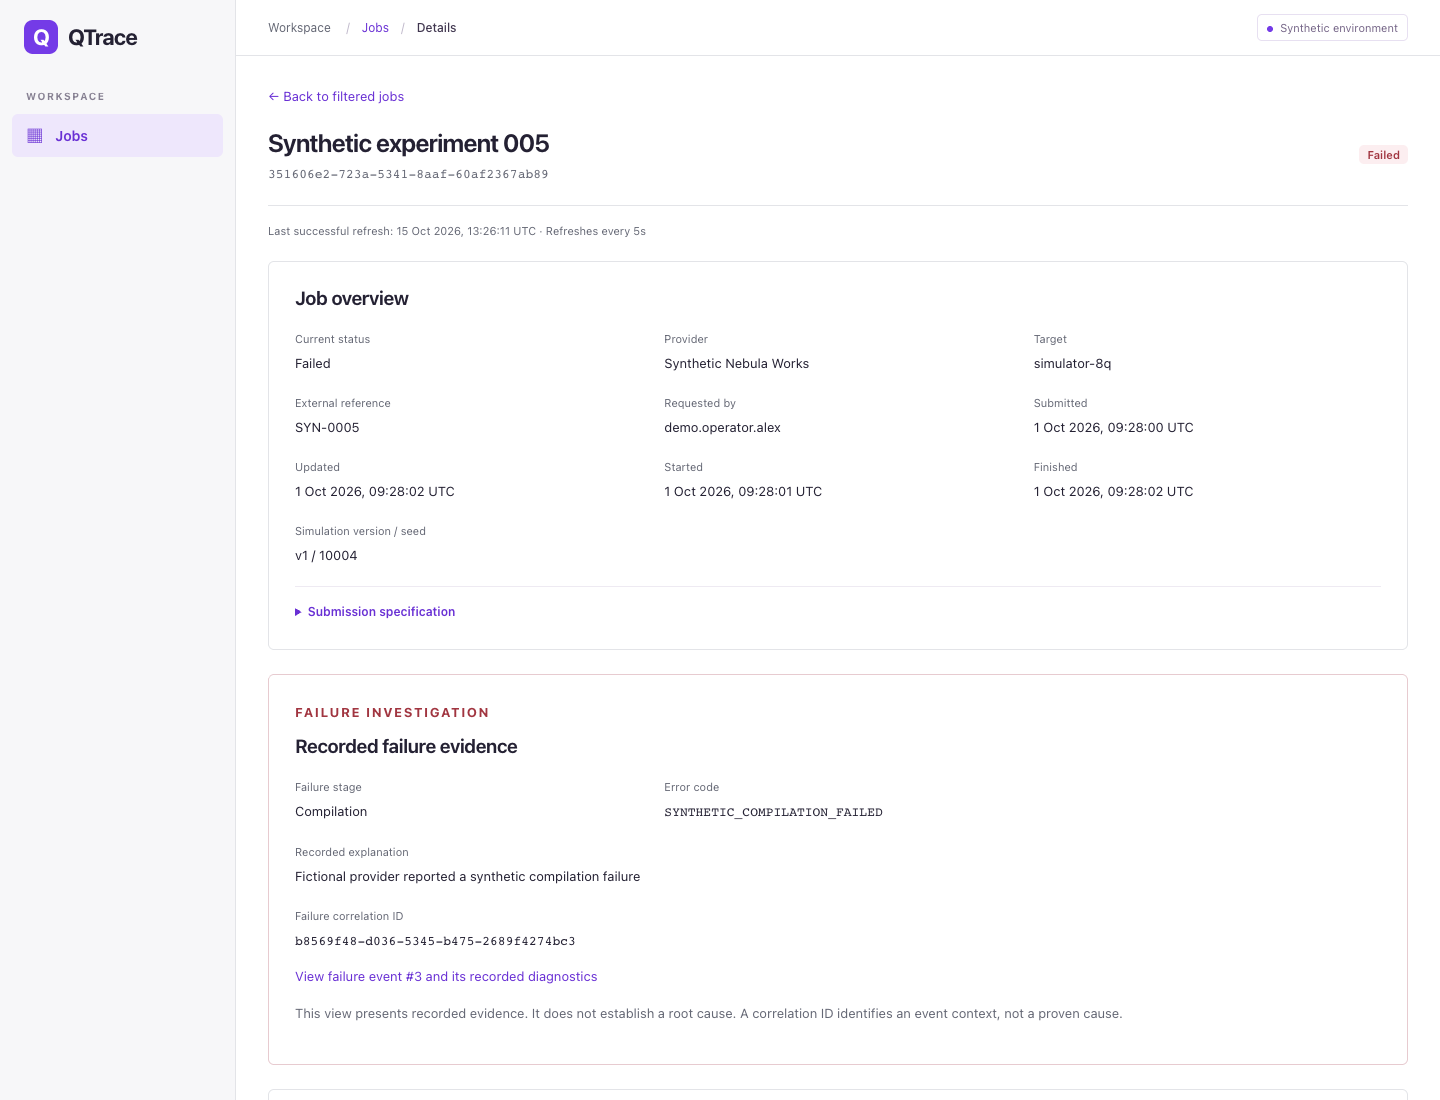
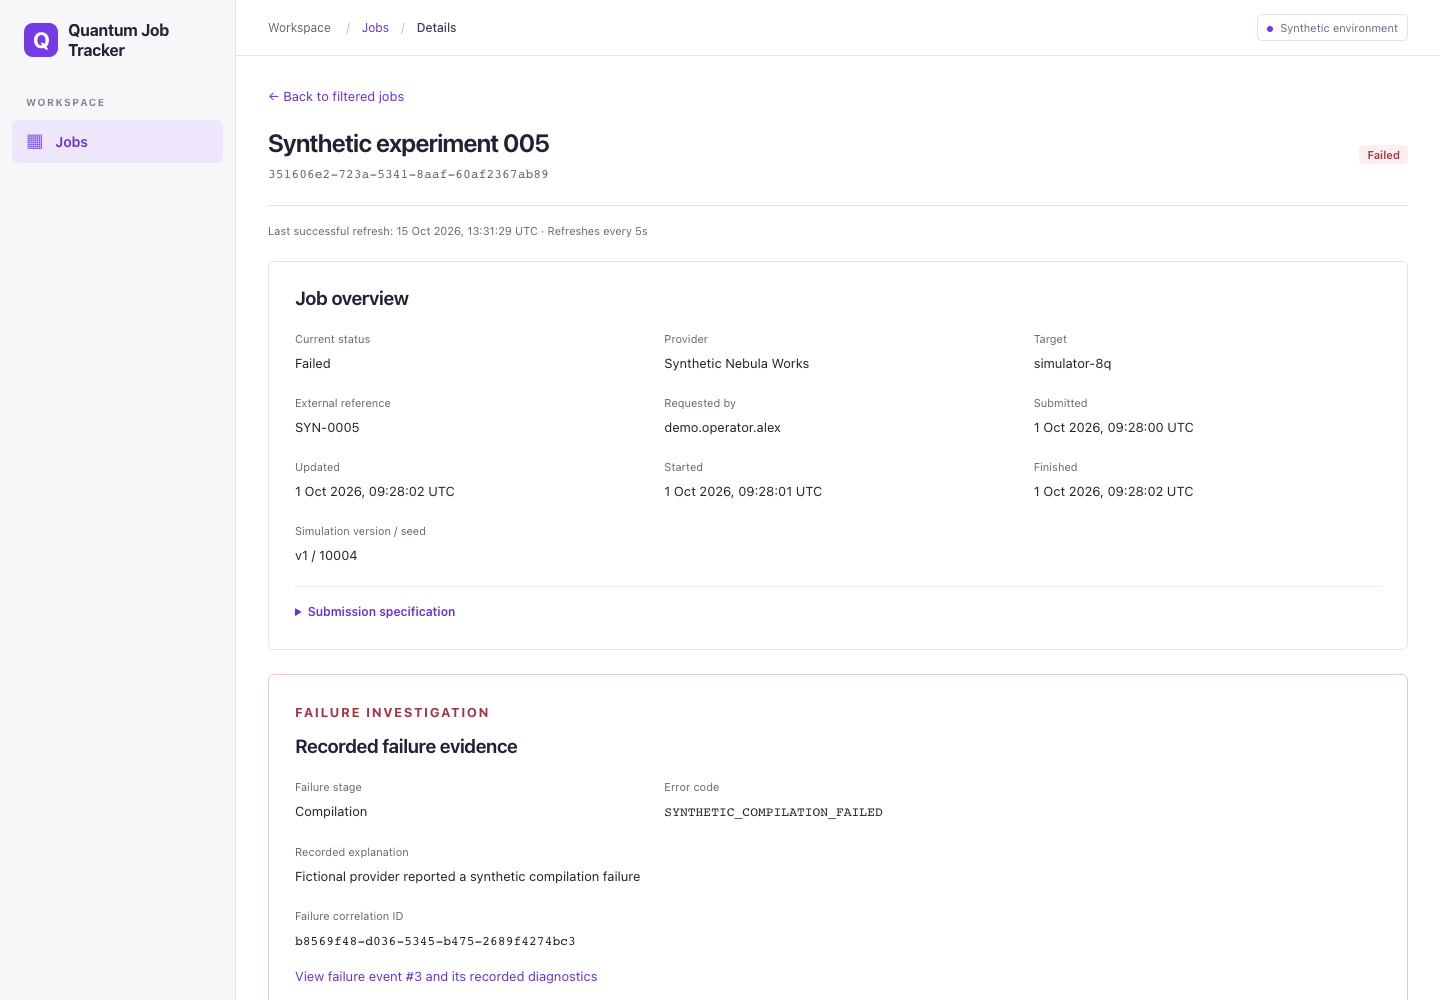
Rename app to Quantum Job Tracker and refresh screenshots

diff --git a/frontend/src/JobDetails.tsx b/frontend/src/JobDetails.tsx
@@ -83,11 +83,11 @@ export function JobDetails({ jobId, backHref }: { jobId: string; backHref: strin
   return (
     <div className="app-shell">
       <aside className="sidebar" aria-label="Workspace navigation">
-        <header><span className="mark" aria-hidden="true">Q</span> QTrace</header>
+        <header><span className="mark" aria-hidden="true">Q</span><span className="brand-name">Quantum Job Tracker</span></header>
         <p className="workspace-label">WORKSPACE</p>
         <a className="nav-item active" href={backHref}><span aria-hidden="true">▦</span> Jobs</a>
         <div className="sidebar-note"><span className="sidebar-note-icon" aria-hidden="true">◇</span><strong>Synthetic environment</strong><p>Investigate recorded evidence from fictional runs.</p></div>
-        <div className="sidebar-bottom">QTrace <span>Local workspace</span></div>
+        <div className="sidebar-bottom"><span className="brand-footer">Quantum Job Tracker</span><span>Local workspace</span></div>
       </aside>
       <div className="workspace">
         <div className="topbar"><span>Workspace <span className="breadcrumb-divider">/</span><a href={backHref}>Jobs</a><span className="breadcrumb-divider">/</span><strong>Details</strong></span><span className="environment-badge">Synthetic environment</span></div>

diff --git a/frontend/src/App.tsx b/frontend/src/App.tsx
@@ -115,11 +115,11 @@ function JobsList() {
   return (
     <div className="app-shell">
       <aside className="sidebar" aria-label="Workspace navigation">
-        <header><span className="mark" aria-hidden="true">Q</span> QTrace</header>
+        <header><span className="mark" aria-hidden="true">Q</span><span className="brand-name">Quantum Job Tracker</span></header>
         <p className="workspace-label">WORKSPACE</p>
         <a className="nav-item active" href="/" aria-current="page"><span aria-hidden="true">▦</span> Jobs</a>
         <div className="sidebar-note"><span className="sidebar-note-icon" aria-hidden="true">◇</span><strong>Synthetic environment</strong><p>Investigate fictional jobs and their outcomes.</p></div>
-        <div className="sidebar-bottom">QTrace <span>Local workspace</span></div>
+        <div className="sidebar-bottom"><span className="brand-footer">Quantum Job Tracker</span><span>Local workspace</span></div>
       </aside>
       <div className="workspace">
         <div className="topbar"><span>Workspace <span className="breadcrumb-divider">/</span> <strong>Jobs</strong></span><span className="environment-badge">Synthetic environment</span></div>

diff --git a/frontend/src/style.css b/frontend/src/style.css
@@ -130,3 +130,8 @@ section.detail-panel { padding: 26px; overflow: visible; }
 .diagnostics pre { padding: 16px; margin: 14px 0 0; overflow-x: auto; background: #faf9fc; border: 1px solid #e3e4e8; border-radius: 6px; font-size: 12px; line-height: 1.7; white-space: pre-wrap; overflow-wrap: anywhere; }
 @media (max-width: 950px) { .metadata-grid { grid-template-columns: repeat(2, minmax(0, 1fr)); } .event-heading, .timeline-heading { align-items: flex-start; flex-direction: column; gap: 8px; } .timeline-heading { margin-bottom: 20px; } .timeline-heading h2 { margin-bottom: 0; } }
 @media (max-width: 650px) { .metadata-grid { grid-template-columns: 1fr; } section.detail-panel { padding: 20px; } .event-metadata { flex-direction: column; gap: 12px; } }
+
+.brand-name { font-size: 16px; line-height: 1.25; letter-spacing: -.3px; }
+.mark { flex-shrink: 0; }
+.sidebar-bottom { gap: 8px; align-items: center; flex-wrap: wrap; }
+.sidebar-bottom .brand-footer { color: #62596f; font-size: 12px; }

diff --git a/frontend/playwright.config.ts b/frontend/playwright.config.ts
@@ -8,8 +8,8 @@ export default defineConfig({
   retries: 0,
   reporter: 'list',
   use: {
-    baseURL: process.env.QTRACE_E2E_BASE_URL ?? 'http://127.0.0.1:5173',
-    channel: process.env.QTRACE_E2E_CHANNEL,
+    baseURL: process.env.QUANTUM_JOB_TRACKER_E2E_BASE_URL ?? 'http://127.0.0.1:5173',
+    channel: process.env.QUANTUM_JOB_TRACKER_E2E_CHANNEL,
     trace: 'retain-on-failure',
     screenshot: 'only-on-failure',
   },

diff --git a/frontend/index.html b/frontend/index.html
@@ -4,7 +4,7 @@
     <meta charset="UTF-8" />
     <meta name="viewport" content="width=device-width, initial-scale=1.0" />
     <meta name="theme-color" content="#172a31" />
-    <title>QTrace · Synthetic quantum operations</title>
+    <title>Quantum Job Tracker · Synthetic quantum operations</title>
   </head>
   <body>
     <div id="root"></div>

diff --git a/backend/tests/conftest.py b/backend/tests/conftest.py
@@ -13,13 +13,13 @@ from sqlalchemy.pool import NullPool
 
 @pytest.fixture
 def postgres_engine():
-    url = os.environ.get("QTRACE_TEST_DATABASE_URL")
+    url = os.environ.get("QUANTUM_JOB_TRACKER_TEST_DATABASE_URL")
     if not url:
-        pytest.skip("Set QTRACE_TEST_DATABASE_URL to run real PostgreSQL tests")
+        pytest.skip("Set QUANTUM_JOB_TRACKER_TEST_DATABASE_URL to run real PostgreSQL tests")
     if not url.startswith("postgresql+psycopg://"):
         pytest.fail("Integration tests require a postgresql+psycopg URL, never SQLite")
     admin = create_engine(url, poolclass=NullPool)
-    schema = "qtrace_test_" + uuid4().hex
+    schema = "quantum_job_tracker_test_" + uuid4().hex
     with admin.begin() as connection:
         connection.execute(text(f'CREATE SCHEMA "{schema}"'))
     engine = create_engine(url, poolclass=NullPool, connect_args={

diff --git a/backend/app/main.py b/backend/app/main.py
@@ -19,13 +19,13 @@ def create_app(settings: Settings | None = None) -> FastAPI:
         finally:
             application.state.engine.dispose()
 
-    application = FastAPI(title="QTrace API", lifespan=lifespan)
+    application = FastAPI(title="Quantum Job Tracker API", lifespan=lifespan)
     application.include_router(job_list_router)
     application.include_router(job_details_router)
 
     @application.get("/health/live")
     def live() -> dict[str, str]:
-        return {"status": "ok", "service": "qtrace-api"}
+        return {"status": "ok", "service": "quantum-job-tracker-api"}
 
     @application.get("/health/ready")
     def ready(request: Request) -> JSONResponse:

diff --git a/backend/tests/test_health.py b/backend/tests/test_health.py
@@ -21,7 +21,7 @@ def test_liveness_does_not_probe_database():
         with TestClient(create_app(settings())) as client:
             response = client.get("/health/live")
         assert response.status_code == 200
-        assert response.json() == {"status": "ok", "service": "qtrace-api"}
+        assert response.json() == {"status": "ok", "service": "quantum-job-tracker-api"}
         probe.assert_not_called()
 
 

diff --git a/docs/progress.md b/docs/progress.md
@@ -1,10 +1,10 @@
-# QTrace progress
+# Quantum Job Tracker progress
 
 ## Current status
 
 Job details and the failure-investigation workflow are complete on top of the searchable jobs list. The details stage passed 85 backend tests, 19 frontend tests, production/container builds, and a Playwright workflow against the live PostgreSQL stack using installed Chrome. Worker execution, authentication, and operator actions remain deferred.
 
-The selected project name remains QTrace. All seeded and future quantum jobs and providers are synthetic; nothing connects to Horizon Quantum systems.
+The project is named Quantum Job Tracker. All seeded and future quantum jobs and providers are synthetic; nothing connects to Horizon Quantum systems.
 
 ## Staged checklist
 
@@ -96,7 +96,7 @@ The selected project name remains QTrace. All seeded and future quantum jobs and
 
 - Re-read existing code and documentation; no `AGENTS.md` exists in this workspace. Preserved the existing frontend/API foundation.
 - Docker Engine and Compose are now accessible. The previously missing Docker/PostgreSQL verification path was available for this stage.
-- `QTRACE_TEST_DATABASE_URL=… .venv/bin/python -m pytest -q`: **55 passed** against PostgreSQL 17 (52 PostgreSQL tests plus 3 health tests), with the same single dependency deprecation warning. PostgreSQL tests applied migrations in disposable schemas; no SQLite substitute or database mocks were used for domain checks.
+- `QUANTUM_JOB_TRACKER_TEST_DATABASE_URL=… .venv/bin/python -m pytest -q`: **55 passed** against PostgreSQL 17 (52 PostgreSQL tests plus 3 health tests), with the same single dependency deprecation warning. PostgreSQL tests applied migrations in disposable schemas; no SQLite substitute or database mocks were used for domain checks.
 - PostgreSQL checks cover all 36 state pairs, direct terminal reactivation/illegal SQL transitions, failed event insertion rollback, actual enclosing transaction rollback, sequence uniqueness, immutable events/submissions, stale row versions, retry foreign keys, progress rejection after cancellation, both cancellation/completion commit orders, repeatable seed histories, model/migration agreement, and migration downgrade/upgrade.
 - `docker compose up --build -d`: passed. API/migration/frontend images built, the migration container exited 0, and API/database/frontend reported healthy.
 - `docker compose exec -T api alembic current`: `0002_jobs_and_events (head)`.
@@ -109,7 +109,7 @@ The selected project name remains QTrace. All seeded and future quantum jobs and
 ### Job-list checks (15 October 2026)
 
 - Re-read existing API/model/migration/seed/frontend code and project documents. No `AGENTS.md` was present. Preserved the workspace shell and purple styling already in the frontend.
-- `QTRACE_TEST_DATABASE_URL=… .venv/bin/python -m pytest -q`: **80 passed**, with one pre-existing Starlette/AnyIO deprecation warning. Includes actual PostgreSQL API filtering, timestamp ties, pagination boundaries, invalid queries, literal reference search, and a migration backfill/history-preservation test. Invalid-query and outage-response tests do not require PostgreSQL; database-backed tests still skip unless the explicit test URL is set.
+- `QUANTUM_JOB_TRACKER_TEST_DATABASE_URL=… .venv/bin/python -m pytest -q`: **80 passed**, with one pre-existing Starlette/AnyIO deprecation warning. Includes actual PostgreSQL API filtering, timestamp ties, pagination boundaries, invalid queries, literal reference search, and a migration backfill/history-preservation test. Invalid-query and outage-response tests do not require PostgreSQL; database-backed tests still skip unless the explicit test URL is set.
 - `cd frontend && npm test`: **11 passed** with Vitest/React Testing Library. Covers loading, result fields/statuses, empty results, retry after network failure, 422 feedback, combined filters, page reset/bounds, URL history, stale polling/recovery, hidden-tab polling, and obsolete responses. Mock HTTP data is confined to tests.
 - `cd frontend && npm run build`: passed TypeScript checking and Vite production build.
 - The first container build reported development-tool advisories. Updated Vite to 6.4.4 and Vitest to 4.1.11; `npm audit --json` subsequently reported **zero vulnerabilities**, and build/tests passed with those versions.
@@ -117,25 +117,25 @@ The selected project name remains QTrace. All seeded and future quantum jobs and
 - Live HTTP assertions through the frontend proxy traversed all 8 default pages: 200 distinct jobs in stable order, one combined status/provider/date/reference match, direct UUID search, no matches, beyond-last page, and invalid parameter rejection. Passed.
 - `sh scripts/check-stack.sh`: passed against the final Docker stack and actual PostgreSQL.
 - Desktop browser verification showed the 200-job list, a case-insensitive reference match, combined status/provider filters, restoration of a URL containing UTC date bounds, the live empty-results state, and browser Back restoration. Date bounds were restored from the URL; browser automation could not reliably enter native date controls. Form date changes are covered by the React tests and real API date-boundary tests.
-- Saved the verified browser view to `/tmp/qtrace-jobs-preview.jpg`. No dedicated mobile-device or screen-reader audit was performed.
+- Saved a temporary preview of the verified jobs view. No dedicated mobile-device or screen-reader audit was performed.
 - Final Python compilation, offline migration SQL generation, dependency consistency, direct source/document whitespace checks, and Markdown link/fence checks passed.
 
 ### Job-details checks (15 October 2026)
 
 - Re-read existing code and project documents before changing files. No `AGENTS.md` exists in this workspace. Preserved the existing jobs list, schema, seed data, and workspace styling.
-- `QTRACE_TEST_DATABASE_URL=… .venv/bin/python -m pytest -q`: **85 passed**, with the pre-existing Starlette/AnyIO deprecation warning. New PostgreSQL tests verify exact stored evidence, per-job event isolation, ascending sequences despite tied timestamps, incomplete history without fabricated events, null outcomes, and unknown IDs. Additional checks cover malformed UUIDs and sanitized database outages.
+- `QUANTUM_JOB_TRACKER_TEST_DATABASE_URL=… .venv/bin/python -m pytest -q`: **85 passed**, with the pre-existing Starlette/AnyIO deprecation warning. New PostgreSQL tests verify exact stored evidence, per-job event isolation, ascending sequences despite tied timestamps, incomplete history without fabricated events, null outcomes, and unknown IDs. Additional checks cover malformed UUIDs and sanitized database outages.
 - `cd frontend && npm test`: **19 passed**. New component checks cover metadata/failure/timeline rendering, expandable diagnostics, absent fields/events, 404/422 states, retry, stale refresh/recovery without event duplication, and non-failed jobs.
 - `cd frontend && npm run build`: passed TypeScript and Vite production build, including browser-test source/configuration type checking.
 - Added Playwright 1.64.1 and `npm run test:e2e`. The first attempt to download its bundled Chromium failed with ENOSPC and was stopped. Existing browser caches were left intact.
-- `QTRACE_E2E_CHANNEL=chrome npm run test:e2e`: **1 browser test passed** using installed Google Chrome and the real Nginx/FastAPI/PostgreSQL stack. An initial run timed out on an overly strict filter label selector; the selector was corrected and the test rerun successfully. The passing run filtered failures, opened one, checked recorded error metadata/correlation/diagnostics and event order, reloaded details, and returned to the exact filtered list URL.
+- `QUANTUM_JOB_TRACKER_E2E_CHANNEL=chrome npm run test:e2e`: **1 browser test passed** using installed Google Chrome and the real Nginx/FastAPI/PostgreSQL stack. An initial run timed out on an overly strict filter label selector; the selector was corrected and the test rerun successfully. The passing run filtered failures, opened one, checked recorded error metadata/correlation/diagnostics and event order, reloaded details, and returned to the exact filtered list URL.
 - `docker compose up --build -d`: passed with the new API and frontend; no schema migration or data rewrite was needed.
 - `sh scripts/check-stack.sh`: passed against the deployed stack.
 - `npm audit --json`: zero reported vulnerabilities after adding the browser-test dependency.
 - In-app browser inspection verified a seeded compilation failure with all applied list filters preserved in its URL and expanded the recorded JSON diagnostics. No dedicated mobile/screen-reader audit was performed.
-- Saved the complete verified investigation view to `/tmp/qtrace-failure-investigation.jpg`.
+- Saved a temporary preview of the complete verified investigation view.
 - Final `tsc --noEmit`, Python compilation, dependency consistency, source/document whitespace, and Markdown link/fence checks passed. Browser-test result output is ignored by Git.
 
-Earlier planning checks verified Markdown links, fenced blocks, requirement/state coverage, whitespace, and the QTrace rename. No authentication or worker tests exist yet.
+Earlier planning checks verified Markdown links, fenced blocks, requirement/state coverage, whitespace, and the Quantum Job Tracker rename. No authentication or worker tests exist yet.
 
 ## Known limitations and blockers
 

diff --git a/README.md b/README.md
@@ -1,6 +1,6 @@
-# QTrace
+# Quantum Job Tracker
 
-QTrace is a portfolio application for investigating and managing **synthetic quantum jobs**. All providers, execution results, durations, and failures are simulated. QTrace has no connection to Horizon Quantum systems or any real quantum service.
+Quantum Job Tracker is a portfolio application for investigating and managing **synthetic quantum jobs**. All providers, execution results, durations, and failures are simulated. Quantum Job Tracker has no connection to Horizon Quantum systems or any real quantum service.
 
 ## See it in action
 
@@ -10,7 +10,7 @@ Screenshots from the running React/FastAPI application backed by PostgreSQL, usi
 
 Search by job ID or external reference, combine status/provider/date filters, and page through 200 seeded jobs. Status badges make the different outcomes easy to scan.
 
-![QTrace jobs workspace showing search filters, provider and status selectors, and a paginated table of synthetic jobs](docs/images/jobs-overview.png)
+![Quantum Job Tracker jobs workspace showing search filters, provider and status selectors, and a paginated table of synthetic jobs](docs/images/jobs-overview.png)
 
 ### Investigate a failure
 
@@ -37,6 +37,8 @@ The React/TypeScript jobs page now searches and paginates real PostgreSQL data t
 
 ## Startup
 
+The app is named **Quantum Job Tracker**. Existing local database/user names, the Compose project name, and historical seed identifiers retain their original internal values to preserve stored jobs, volumes, and deterministic fixture IDs.
+
 Prerequisite: Docker with Compose v2 and a running Docker engine. From this folder:
 
 ```sh
@@ -45,7 +47,7 @@ test -f .env || cp .env.example .env
 docker compose up --build -d
 ```
 
-Open [QTrace](http://localhost:5173) and [API documentation](http://localhost:8000/docs). Allow the initial image builds and health checks to finish; inspect status with `docker compose ps -a` and logs with `docker compose logs api migrate db frontend`.
+Open [Quantum Job Tracker](http://localhost:5173) and [API documentation](http://localhost:8000/docs). Allow the initial image builds and health checks to finish; inspect status with `docker compose ps -a` and logs with `docker compose logs api migrate db frontend`.
 
 Compose starts PostgreSQL, runs `alembic upgrade head` as a one-shot migration service, then starts the API and frontend. PostgreSQL data persists in a named volume. The frontend serves a compiled build through Nginx and proxies `/api/` to the API; the browser never receives database credentials. All published ports bind to the local machine only.
 
@@ -136,10 +138,10 @@ If Google Chrome is already installed, use it without downloading another browse
 
 ```sh
 cd frontend
-QTRACE_E2E_CHANNEL=chrome npm run test:e2e
+QUANTUM_JOB_TRACKER_E2E_CHANNEL=chrome npm run test:e2e
 ```
 
-The default base URL is `http://127.0.0.1:5173`; override it with `QTRACE_E2E_BASE_URL` if needed. The test filters failed jobs, opens a job, checks error metadata/correlation/JSON diagnostics and event ordering against the real API, reloads details, and returns to the same filtered list. It does not mock network responses or modify jobs. Failure traces/screenshots are written to ignored `frontend/test-results/`.
+The default base URL is `http://127.0.0.1:5173`; override it with `QUANTUM_JOB_TRACKER_E2E_BASE_URL` if needed. The test filters failed jobs, opens a job, checks error metadata/correlation/JSON diagnostics and event ordering against the real API, reloads details, and returns to the same filtered list. It does not mock network responses or modify jobs. Failure traces/screenshots are written to ignored `frontend/test-results/`.
 
 On the implementation machine the packaged Chromium download ran out of disk space and was stopped. The test then **passed using installed Chrome** with the command above; no existing browser caches were removed.
 
@@ -155,7 +157,7 @@ This verifies frontend HTML, direct and frontend-proxied API liveness, and direc
 
 | Endpoint | Healthy response | Failure behavior |
 | --- | --- | --- |
-| `GET /health/live` | 200, `{"status":"ok","service":"qtrace-api"}` | Independent of database connectivity |
+| `GET /health/live` | 200, `{"status":"ok","service":"quantum-job-tracker-api"}` | Independent of database connectivity |
 | `GET /health/ready` | 200, `{"status":"ready","database":"reachable"}` | 503, `{"status":"not_ready","database":"unavailable"}` |
 
 Readiness uses a two-second connection timeout and two-second SQL statement timeout. It checks connectivity, not migration currency. The jobs page reads the actual database through `/jobs`; the later health dashboard will add separate operational status and worker health.
@@ -194,11 +196,11 @@ The Vite development server proxies `/api/` to `127.0.0.1:8000`, keeping browser
 (cd frontend && npm test)
 ```
 
-The health tests mock database probes. PostgreSQL tests are separate and **skip** unless `QTRACE_TEST_DATABASE_URL` is set; a passing health-only run is not database verification. With the default local demonstration credentials, run:
+The health tests mock database probes. PostgreSQL tests are separate and **skip** unless `QUANTUM_JOB_TRACKER_TEST_DATABASE_URL` is set; a passing health-only run is not database verification. With the default local demonstration credentials, run:
 
 ```sh
 cd backend
-QTRACE_TEST_DATABASE_URL=postgresql+psycopg://qtrace:local-demo-only@127.0.0.1:5432/qtrace .venv/bin/python -m pytest -q
+QUANTUM_JOB_TRACKER_TEST_DATABASE_URL=postgresql+psycopg://qtrace:local-demo-only@127.0.0.1:5432/qtrace .venv/bin/python -m pytest -q
 ```
 
 Use a PostgreSQL database account permitted to create/drop schemas. If credentials differ, supply a correctly URL-encoded `postgresql+psycopg://…` URL; do not commit it. Every PostgreSQL test migrates its own uniquely named disposable schema and drops that schema afterward. Tests never truncate application tables. Unreachable/misconfigured PostgreSQL causes a failure, not a skip, when the variable is provided.

diff --git a/docs/requirements.md b/docs/requirements.md
@@ -1,8 +1,8 @@
-# QTrace requirements
+# Quantum Job Tracker requirements
 
 ## Purpose and scope
 
-QTrace is a portfolio application for investigating and managing synthetic quantum jobs. Its MVP provides job search, details and history, deterministic simulation, safe cancellation and retry, viewer/operator permissions, and basic operational health.
+Quantum Job Tracker is a portfolio application for investigating and managing synthetic quantum jobs. Its MVP provides job search, details and history, deterministic simulation, safe cancellation and retry, viewer/operator permissions, and basic operational health.
 
 Every provider and quantum job is synthetic. The UI, seed data, and README must clearly label this; they must not imply access to Horizon Quantum systems. No real quantum SDKs, credentials, devices, or provider integrations are required.
 

diff --git a/docs/architecture.md b/docs/architecture.md
@@ -1,4 +1,4 @@
-# QTrace architecture
+# Quantum Job Tracker architecture
 
 ## Components
 
